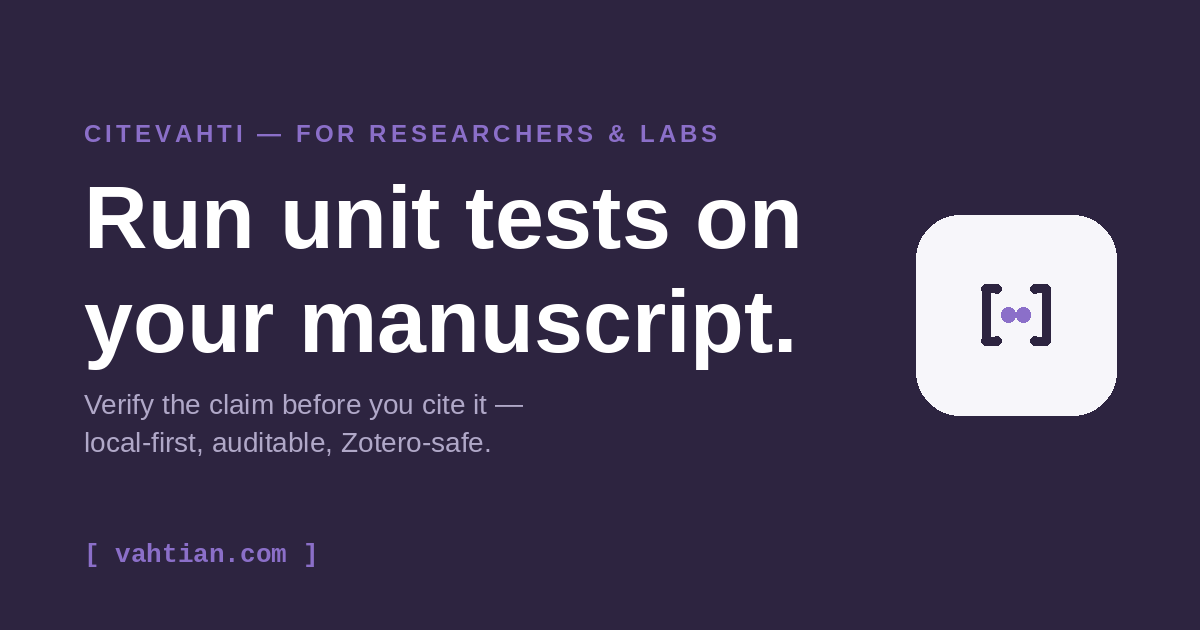
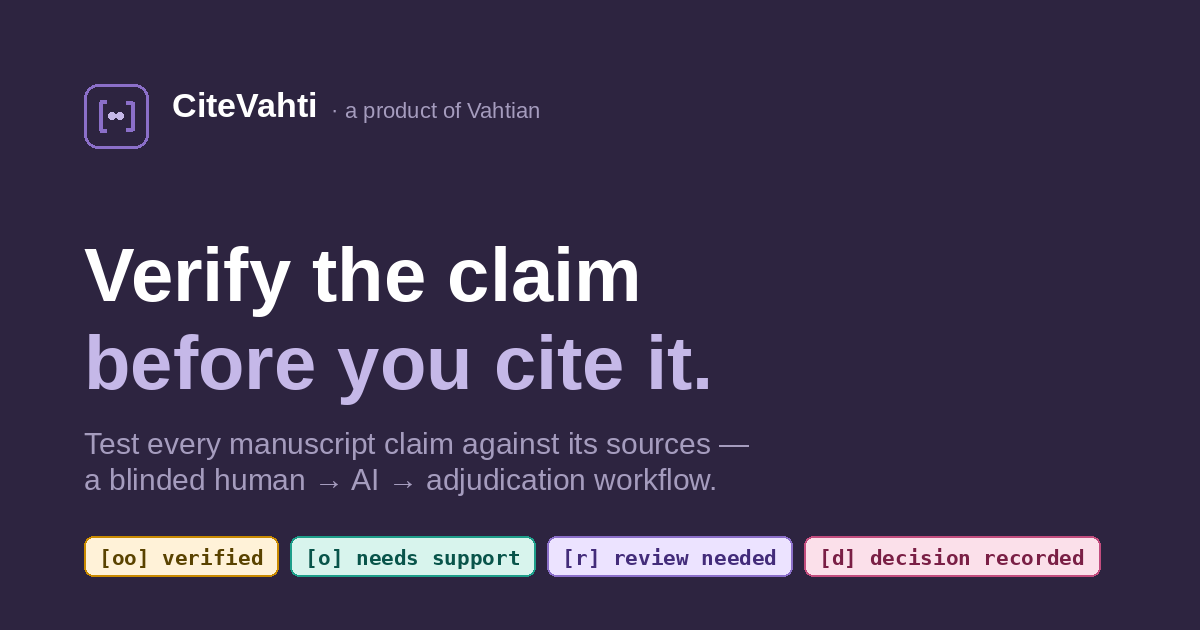
panel: recover Zotero-write undo per-claim from the audit trail; reproducible og.png
The "Undo Zotero write" affordance lived only in the ephemeral state.lastTxn,
which is cleared on claim navigation — so returning to a claim with a committed,
not-yet-undone write showed the write step again and offered no undo. Derive the
undoable transaction per-claim/per-candidate from the durable audit trail
(committedZoteroTxn/recoverableTxn): phaseOf now reads "done" on return, the undo
button and the `u` key act on the recovered transaction, and undo reloads the
trail so it flips to "undone" and the step falls back to write. Covered by the
headless app.js navigation test.

Also add site/make_og.py: a reproducible 1200x630 Open Graph card rendered from a
real font file (no more hand-pasted bitmap), with the palette, bracket mark,
tagline, and four claim-state chips kept in lockstep with site/index.html. The
brand's exact font can be pinned via CITEVAHTI_OG_SANS / *_REG / *_MONO. og.png
regenerated from it.

https://claude.ai/code/session_01ELkcUv1Equ8NTFRjh3TvD1

diff --git a/src/citevahti/panel/web/app.js b/src/citevahti/panel/web/app.js
@@ -229,8 +229,9 @@ function claimOrder() {
 async function selectClaim(id) {
   const sameClaim = id === state.activeClaim;
   state.activeClaim = id;
-  // moving to a different claim: drop per-claim write/undo/timer state so a global
+  // moving to a different claim: drop the in-session write/undo/timer state so a global
   // key (u undo, the o double-tap) can't act on the claim you just navigated away from.
+  // (Undo is still recoverable per-claim from the audit trail via recoverableTxn().)
   if (!sameClaim) { state.candIdx = 0; resetWrite(); state.lastTxn = null; state.docTxn = null; clearTimeout(oTimer); oTimer = null; }   // keep the candidate in view on a same-claim refresh
   renderDoc(); renderProgress();
   try { state.claim = await api("GET", `/api/claims/${encodeURIComponent(id)}`); }
@@ -240,12 +241,31 @@ async function selectClaim(id) {
   renderCard();
 }
 function activeCand() { return (state.claim && state.claim.candidates || [])[state.candIdx] || null; }
+/* The committed, not-yet-undone Zotero write recorded for this candidate in the
+ * claim's audit trail (per-claim, durable). Unlike state.lastTxn it survives
+ * navigating away and back, so the write step — and its undo — can be recognised
+ * on return. (Document edits aren't in the per-claim trail, only Zotero writes.) */
+function committedZoteroTxn(cand) {
+  if (!cand || !state.history) return null;
+  return (state.history.transactions || []).find(
+    (t) => t.candidate_id === cand.candidate_id && t.status === "committed" && !t.undone_at) || null;
+}
+/* The transaction the Undo button/`u` key should act on: the in-session write if
+ * we just made one, else the recovered committed write for the active candidate. */
+function recoverableTxn() {
+  if (state.lastTxn) return state.lastTxn;
+  const t = committedZoteroTxn(activeCand());
+  return t ? t.transaction_id : null;
+}
 function phaseOf(cand) {
   const r = cand && cand.rating, ev = cand && cand.evidence;
   const key = state.activeClaim + ":" + (cand && cand.candidate_id);
   if (state.done.has(key)) return "done";
   if (!r || !r.human) return "rate";
   if (!ev || !ev.decision_id) return "decide";
+  // a committed (not-undone) Zotero write means the write step is already done —
+  // recognise it after navigating away and back, not just in the session that made it.
+  if (committedZoteroTxn(cand)) return "done";
   return "write";
 }
 
@@ -476,7 +496,7 @@ function doneBlock(cand) {
   const code = (cand.evidence && cand.evidence.final_decision) || "";
   const what = { accept: "Added to Zotero", accepted_with_caution: "Added with caution",
     needs_second_review: "Manuscript revised", reject: "Claim struck in document" }[code] || "Recorded";
-  const undo = state.lastTxn ? `<button class="btn ghost" data-act="zundo">Undo Zotero write</button>`
+  const undo = recoverableTxn() ? `<button class="btn ghost" data-act="zundo">Undo Zotero write</button>`
     : state.docTxn ? `<button class="btn ghost" data-act="docundo">Undo document edit</button>` : "";
   return `<div class="next"><div class="done-banner">✓ ${what} — recorded with an undo path.</div>
     <div class="actions">${undo}<button class="btn primary" data-act="next">Next claim <span class="hk">↵</span></button></div></div>`;
@@ -607,9 +627,16 @@ async function zcommit() {
   } catch (e) { showErr(e.message); }
 }
 async function zundo() {
-  if (!state.lastTxn) return;
-  try { await api("POST", "/api/writes/undo", { transaction_id: state.lastTxn }); state.lastTxn = null; unmarkDone(); }
-  catch (e) { showErr(e.message); }
+  const txn = recoverableTxn();
+  if (!txn) return;
+  const cand = activeCand();
+  try {
+    await api("POST", "/api/writes/undo", { transaction_id: txn });
+    state.lastTxn = null;
+    state.done.delete(state.activeClaim + ":" + (cand && cand.candidate_id));
+    await selectClaim(state.activeClaim);   // reload the trail: the txn now reads 'undone' and the step falls back to write
+    loadAudit();
+  } catch (e) { showErr(e.message); }
 }
 async function docPreview(kind) {
   // for a revise, send the wording the human typed; strike needs no replacement
@@ -835,7 +862,7 @@ document.addEventListener("keydown", (e) => {
   const key = e.key.length === 1 ? e.key.toLowerCase() : e.key;   // letter keys are CapsLock-proof
   if (key === "?") { $("#legendBtn").click(); return e.preventDefault(); }              // ? help
   if (key === "u") {                                                                    // u undo last write/edit
-    if (state.lastTxn) { zundo(); return e.preventDefault(); }
+    if (recoverableTxn()) { zundo(); return e.preventDefault(); }
     if (state.docTxn) { docUndo(); return e.preventDefault(); }
   }
   const ids = claimOrder(); if (!ids.length) return;   // document order, matching the eye

diff --git a/tests/panel_js/nav_test.js b/tests/panel_js/nav_test.js
@@ -44,7 +44,7 @@ const sandbox = {
 sandbox.window = sandbox;
 
 // expose the otherwise-closure-scoped helpers + state for assertions
-const exposed = src + "\n;globalThis.__cv = { claimOrder, nextPending, get state(){ return state; } };";
+const exposed = src + "\n;globalThis.__cv = { claimOrder, nextPending, phaseOf, recoverableTxn, committedZoteroTxn, get state(){ return state; } };";
 vm.createContext(sandbox);
 vm.runInContext(exposed, sandbox, { filename: "app.js" });
 const cv = sandbox.__cv;
@@ -94,6 +94,36 @@ eq("nextPending wraps in document order", cv.nextPending(), "u1");
 const ledgerOrder = Object.keys(cv.state.view.claim_states);
 eq("claimOrder differs from ledger order (the original bug)",
    JSON.stringify(cv.claimOrder()) !== JSON.stringify(ledgerOrder), true);
+
+// 5. undo-after-return: a committed (not-undone) Zotero write for the active candidate
+// is recovered from the per-claim audit trail, so the write step reads 'done' and its
+// transaction is undoable even after navigating away and back (state.lastTxn is null).
+const decidedCand = { candidate_id: "c1", rating: { human: { value: "yes" } },
+  evidence: { decision_id: "dec-1", final_decision: "accept" } };
+cv.state.activeClaim = "d2";
+cv.state.candIdx = 0;
+cv.state.claim = { claim: { claim_id: "d2" }, candidates: [decidedCand] };
+cv.state.lastTxn = null;
+cv.state.done = new Set();
+cv.state.history = { transactions: [
+  { transaction_id: "txn-aaa", candidate_id: "c1", status: "committed", undone_at: null },
+] };
+eq("phaseOf is 'done' when a committed Zotero write is recovered from the trail",
+   cv.phaseOf(decidedCand), "done");
+eq("recoverableTxn returns the committed txn id after return (lastTxn cleared)",
+   cv.recoverableTxn(), "txn-aaa");
+
+// an undone write must NOT be recovered: the step falls back to 'write', undo is gone
+cv.state.history = { transactions: [
+  { transaction_id: "txn-aaa", candidate_id: "c1", status: "undone", undone_at: "2026-06-15T00:00" },
+] };
+eq("phaseOf falls back to 'write' once the write is undone", cv.phaseOf(decidedCand), "write");
+eq("recoverableTxn is null once the write is undone", cv.recoverableTxn(), null);
+
+// in-session write still wins: state.lastTxn is preferred over trail recovery
+cv.state.lastTxn = "txn-session";
+eq("recoverableTxn prefers the in-session lastTxn", cv.recoverableTxn(), "txn-session");
+cv.state.lastTxn = null;
 
 console.log(failures ? `\n${failures} test(s) failed` : "\nall navigation tests passed");
 process.exit(failures ? 1 : 0);

diff --git a/site/make_og.py b/site/make_og.py
@@ -1,0 +1,143 @@
+#!/usr/bin/env python3
+"""Render the CiteVahti Open Graph card (site/og.png), 1200x630.
+
+Reproducible and text-rendered with a real font file — not a hand-pasted bitmap —
+so the link-preview wordmark and tagline are crisp and on-brand. Colours, the
+bracket mark, the tagline, and the four claim-state chips are kept in lockstep
+with site/index.html.
+
+Fonts: by default it picks the first available system sans (Liberation/DejaVu) for
+the wordmark + tagline and a system mono for the chips. To pin the brand's exact
+font, drop the TTFs in and point at them:
+
+    CITEVAHTI_OG_SANS=/path/Brand-Bold.ttf \
+    CITEVAHTI_OG_SANS_REG=/path/Brand-Regular.ttf \
+    CITEVAHTI_OG_MONO=/path/Brand-Mono.ttf \
+    python3 site/make_og.py
+
+Requires Pillow (`pip install Pillow`). Re-run after editing the hero copy.
+"""
+
+from __future__ import annotations
+
+import os
+from pathlib import Path
+
+from PIL import Image, ImageDraw, ImageFont
+
+OUT = Path(__file__).with_name("og.png")
+W, H = 1200, 630
+
+# ---- brand palette (mirrors :root in site/index.html) -----------------------
+NAVY = (45, 36, 64)        # #2D2440
+VIOLET = (139, 111, 201)   # #8B6FC9
+LILAC = (197, 184, 232)    # #C5B8E8
+WHITE = (255, 255, 255)
+MUTED = (165, 156, 190)    # legible "muted" on navy
+
+# four claim-state chips: (label, fill, border, text) — same colours as the site
+CHIPS = [
+    ("[oo] verified",        (255, 242, 216), (201, 138, 0),  (90, 67, 0)),
+    ("[o] needs support",    (216, 244, 237), (30, 158, 138), (8, 84, 74)),
+    ("[r] review needed",    (236, 227, 255), (139, 111, 201), (67, 44, 122)),
+    ("[d] decision recorded", (251, 224, 234), (194, 77, 126), (122, 31, 69)),
+]
+
+# ---- font resolution --------------------------------------------------------
+_SANS_BOLD = [
+    "/usr/share/fonts/truetype/liberation/LiberationSans-Bold.ttf",
+    "/usr/share/fonts/truetype/dejavu/DejaVuSans-Bold.ttf",
+    "/System/Library/Fonts/Helvetica.ttc",
+]
+_SANS_REG = [
+    "/usr/share/fonts/truetype/liberation/LiberationSans-Regular.ttf",
+    "/usr/share/fonts/truetype/dejavu/DejaVuSans.ttf",
+]
+_MONO = [
+    "/usr/share/fonts/truetype/dejavu/DejaVuSansMono-Bold.ttf",
+    "/usr/share/fonts/truetype/liberation/LiberationMono-Bold.ttf",
+    "/usr/share/fonts/truetype/dejavu/DejaVuSansMono.ttf",
+]
+
+
+def _font(env: str, candidates: list[str], size: int) -> ImageFont.FreeTypeFont:
+    paths = [os.environ[env]] if os.environ.get(env) else []
+    paths += candidates
+    for p in paths:
+        if Path(p).exists():
+            return ImageFont.truetype(p, size)
+    raise SystemExit(
+        f"no usable font for {env}; set {env}=/path/to/font.ttf "
+        f"(tried: {', '.join(paths)})")
+
+
+def _rounded(draw, box, radius, **kw):
+    draw.rounded_rectangle(box, radius=radius, **kw)
+
+
+def main() -> None:
+    img = Image.new("RGB", (W, H), NAVY)
+    d = ImageDraw.Draw(img)
+
+    sans_bold = _font("CITEVAHTI_OG_SANS", _SANS_BOLD, 76)
+    sans_lede = _font("CITEVAHTI_OG_SANS_REG", _SANS_REG, 30)
+    sans_brand = _font("CITEVAHTI_OG_SANS", _SANS_BOLD, 34)
+    sans_by = _font("CITEVAHTI_OG_SANS_REG", _SANS_REG, 22)
+    mono = _font("CITEVAHTI_OG_MONO", _MONO, 21)
+
+    pad = 84
+
+    # ---- header: bracket mark + wordmark ------------------------------------
+    # the mark, scaled from the 32px favicon: rounded-rect panel, violet brackets,
+    # two lilac dots ("the claim between the brackets").
+    m = 64
+    mx, my = pad, pad
+    _rounded(d, [mx, my, mx + m, my + m], radius=14,
+             outline=VIOLET, width=3)
+    s = m / 32.0  # scale factor from the 32px source paths
+
+    def px(x, y):
+        return (mx + x * s, my + y * s)
+
+    lw = max(3, int(2.4 * s))
+    # left bracket  M11 9 H8 V23 H11   /  right bracket  M21 9 H24 V23 H21
+    d.line([px(11, 9), px(8, 9), px(8, 23), px(11, 23)], fill=VIOLET, width=lw, joint="curve")
+    d.line([px(21, 9), px(24, 9), px(24, 23), px(21, 23)], fill=VIOLET, width=lw, joint="curve")
+    r = 1.9 * s
+    for cx, cy in ((14, 16), (18, 16)):
+        x, y = px(cx, cy)
+        d.ellipse([x - r, y - r, x + r, y + r], fill=LILAC)
+
+    tx = mx + m + 24
+    d.text((tx, my + 2), "CiteVahti", font=sans_brand, fill=WHITE)
+    wm_w = d.textlength("CiteVahti", font=sans_brand)
+    d.text((tx + wm_w + 14, my + 14), "· a product of Vahtian", font=sans_by, fill=MUTED)
+
+    # ---- hero: the tagline (two lines, exactly as the site h1) --------------
+    d.text((pad, 232), "Verify the claim", font=sans_bold, fill=WHITE)
+    d.text((pad, 320), "before you cite it.", font=sans_bold, fill=LILAC)
+
+    # ---- lede ----------------------------------------------------------------
+    d.text((pad, 426),
+           "Test every manuscript claim against its sources —",
+           font=sans_lede, fill=MUTED)
+    d.text((pad, 462),
+           "a blinded human → AI → adjudication workflow.",
+           font=sans_lede, fill=MUTED)
+
+    # ---- the four claim-state chips -----------------------------------------
+    cx = pad
+    cy = 536
+    for label, fill, border, text in CHIPS:
+        tw = d.textlength(label, font=mono)
+        cw = tw + 30
+        _rounded(d, [cx, cy, cx + cw, cy + 40], radius=9, fill=fill, outline=border, width=2)
+        d.text((cx + 15, cy + 9), label, font=mono, fill=text)
+        cx += cw + 12
+
+    img.save(OUT, "PNG")
+    print(f"wrote {OUT} ({W}x{H})")
+
+
+if __name__ == "__main__":
+    main()